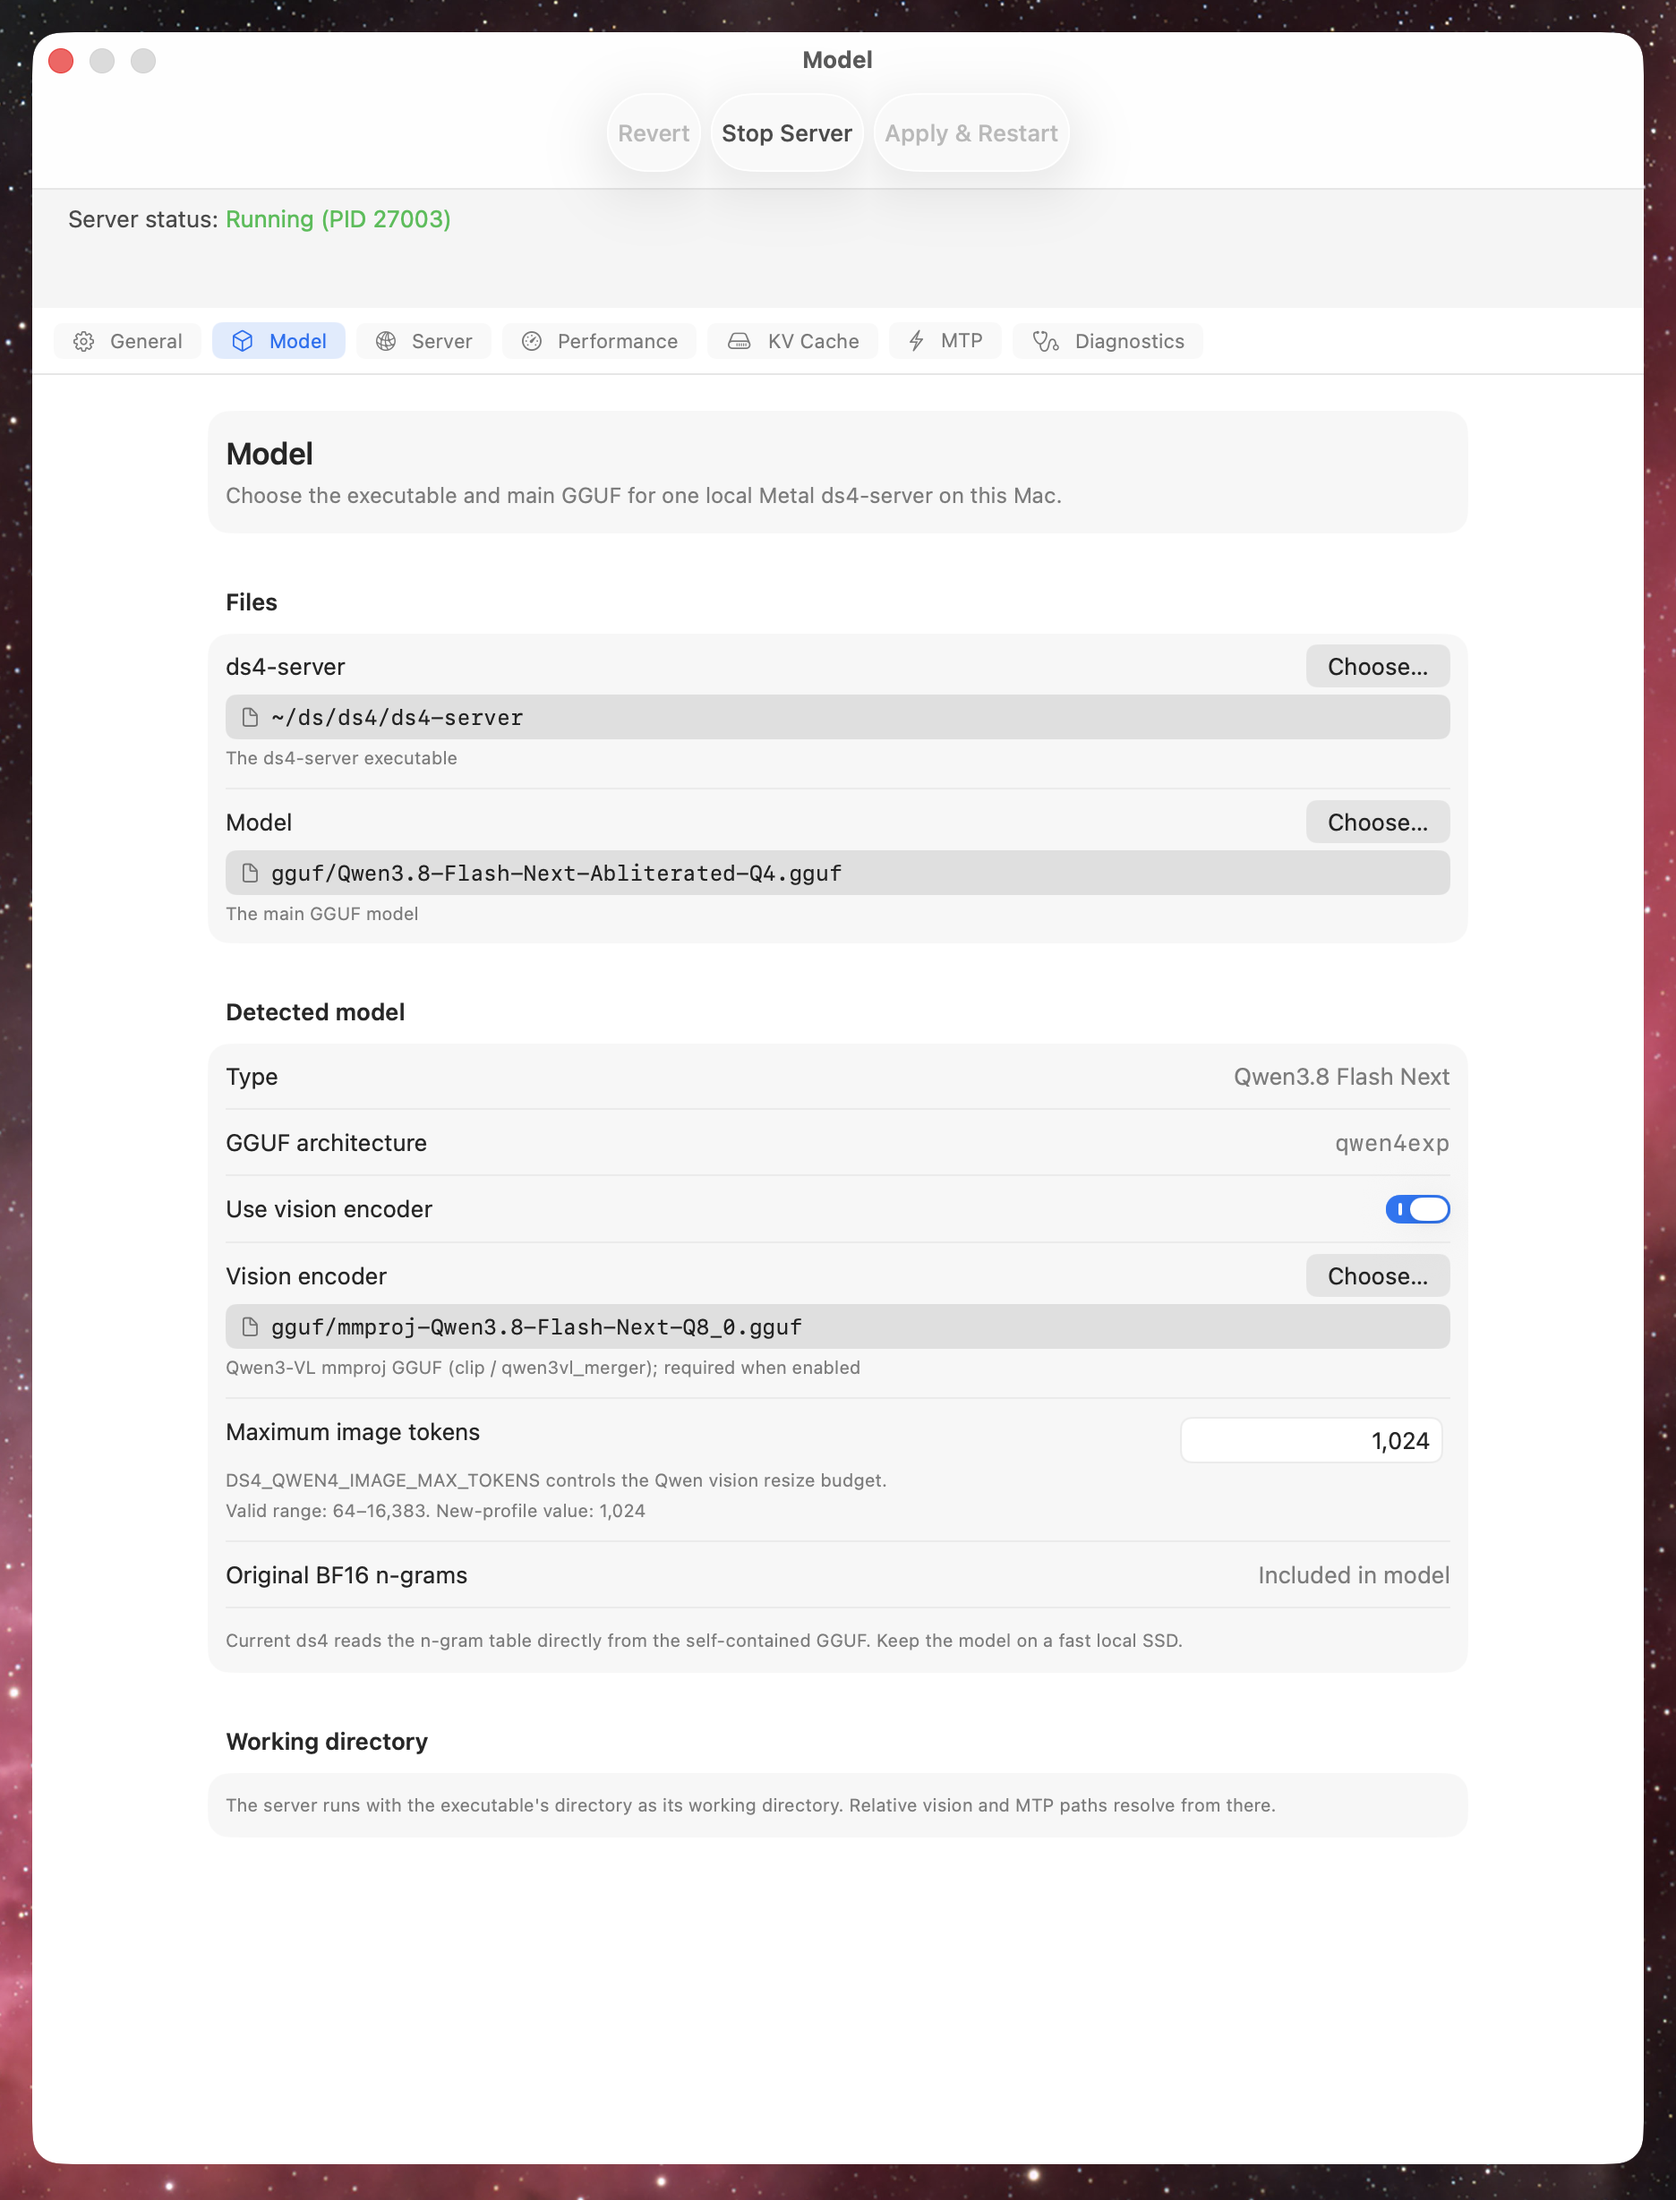
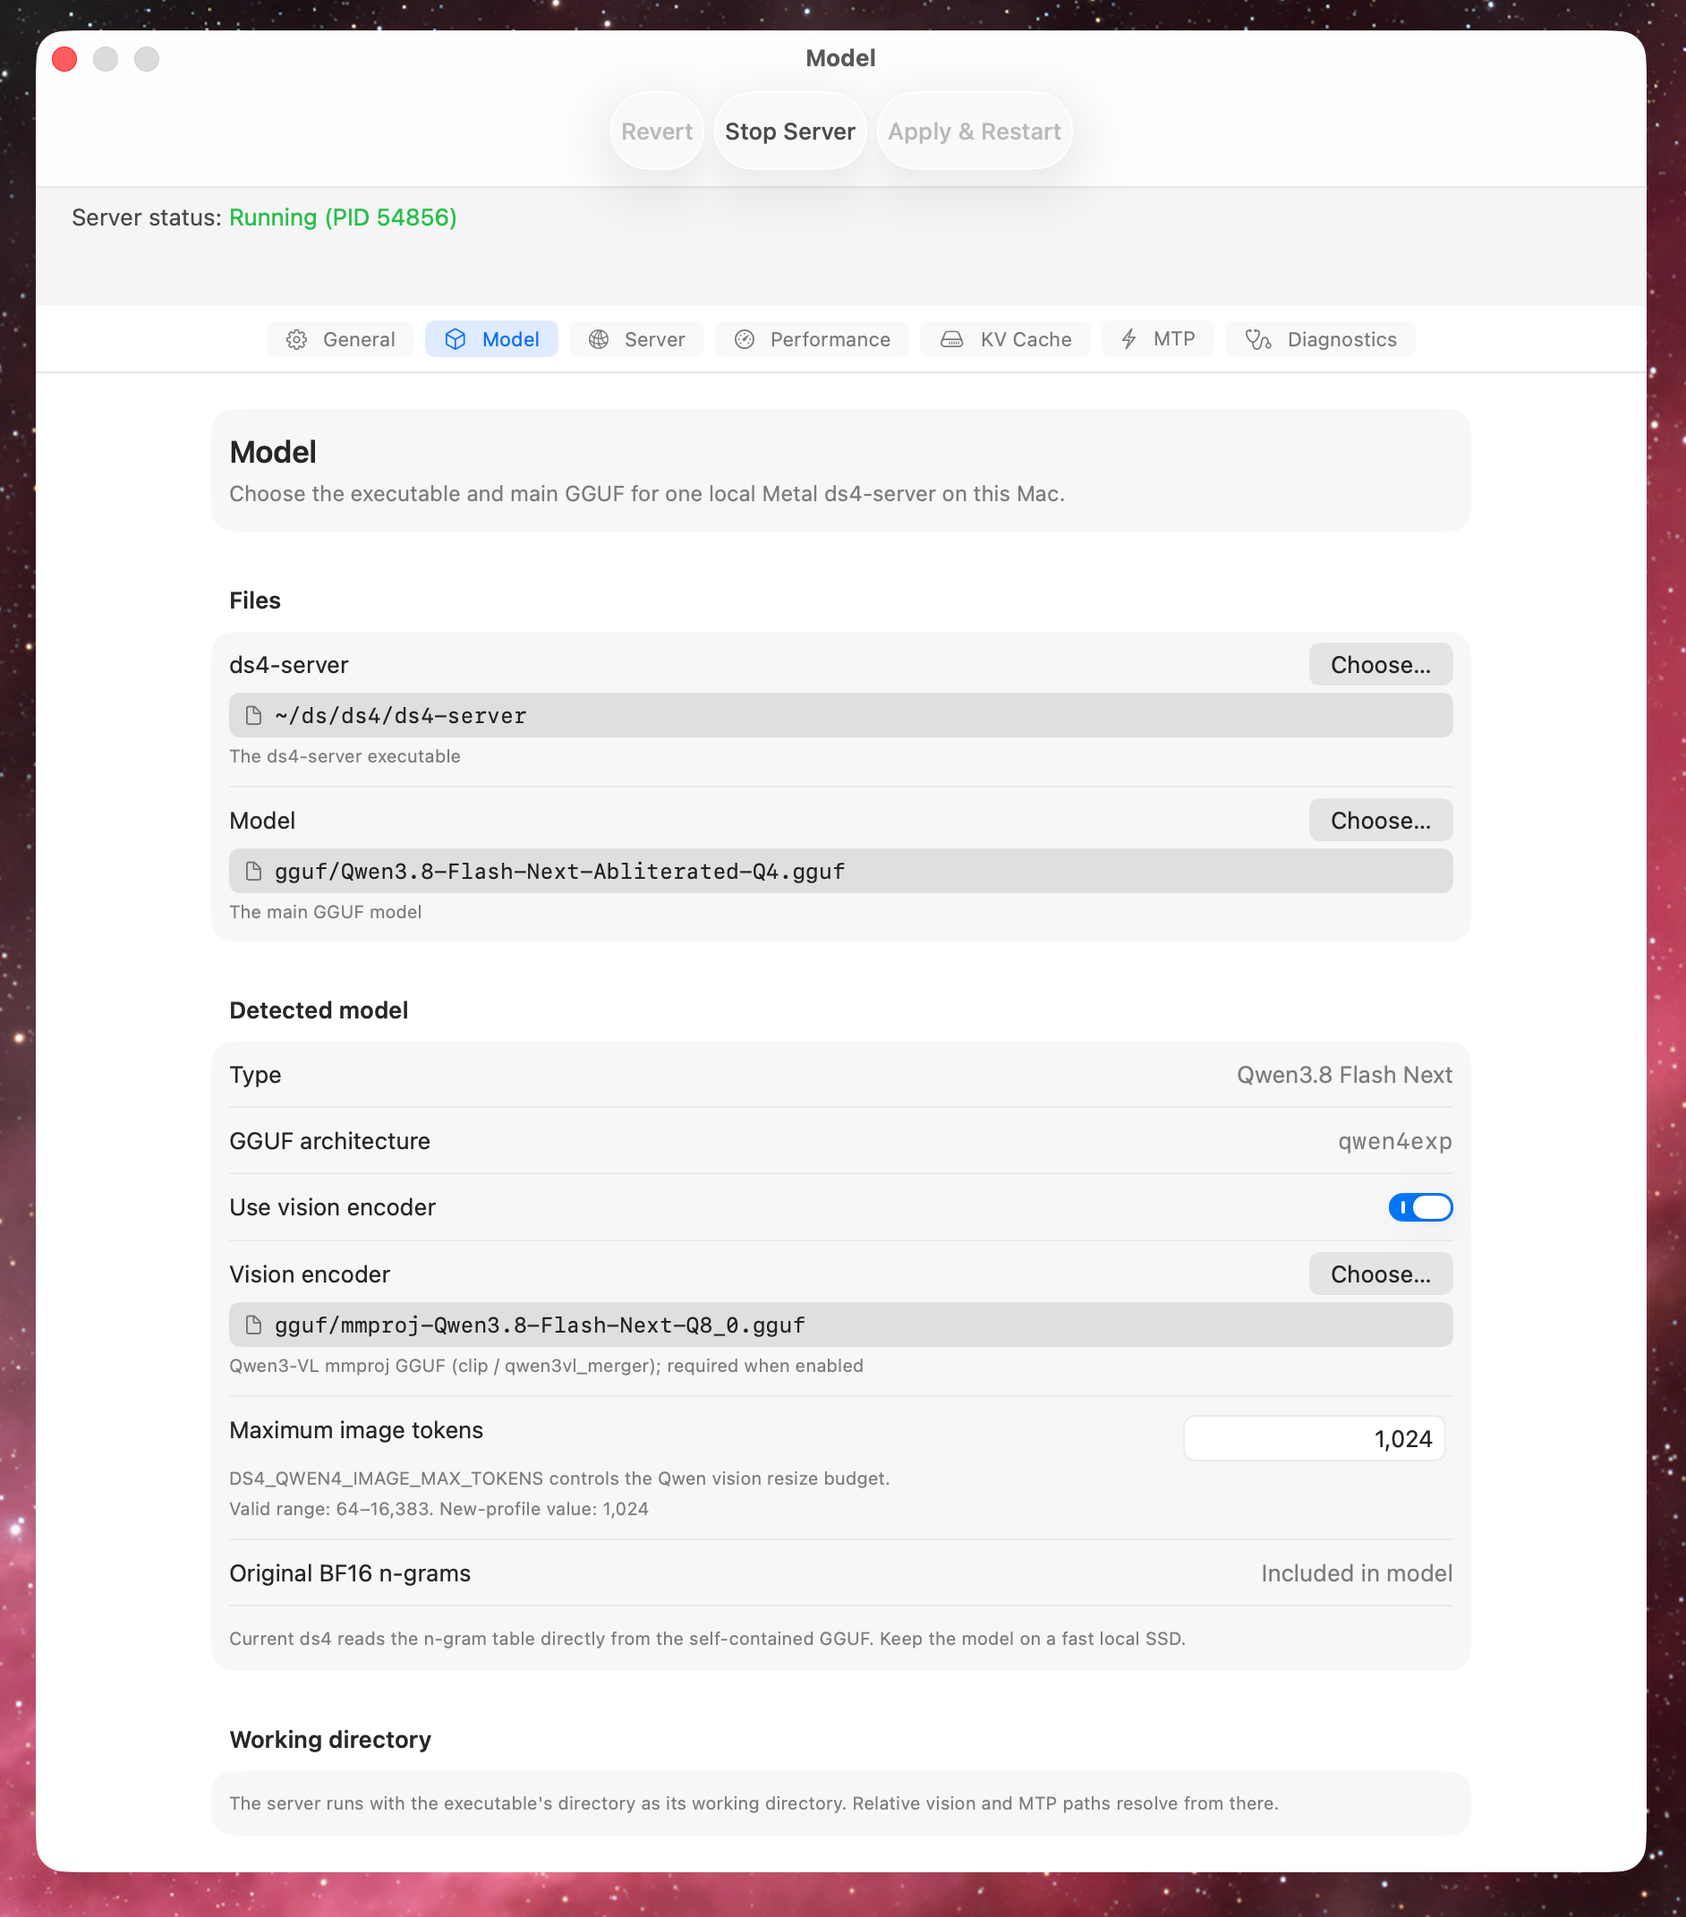
feat: support batched Qwen MTP
ds4 8db1d1d supports embedded Qwen MTP with resident session
batching. Keep incompatible model combinations blocked and document the
known-compatible upstream commit.

Center the Settings navigation and refresh its screenshot.

Release v0.0.3 (build 4).

diff --git a/Tests/dsmenubarTests/ServerCommandTests.swift b/Tests/dsmenubarTests/ServerCommandTests.swift
@@ -551,6 +551,92 @@ final class ServerCommandTests: XCTestCase {
         ).contains("--mtp"))
     }
 
+    func testQwenEmbeddedMTPCanUseNativeSessionBatching() {
+        let qwen = DS4ModelProfile(
+            family: .qwen38,
+            architecture: "qwen4exp",
+            nextnPredictLayers: 1
+        )
+        var config = ServerConfiguration.Config()
+        config.batchedSessions = 4
+        config.mtpMode = .embedded
+        config.mtpExactSampling = true
+
+        let errors = config.validationErrors(modelProfile: qwen)
+        XCTAssertNil(errors[.batchedSessions])
+        XCTAssertNil(errors[.mtpMode])
+
+        let args = DS4ServerCommand.arguments(
+            configuration: config,
+            resolvedModelPath: "/tmp/qwen.gguf",
+            resolvedMTPPath: "",
+            modelProfile: qwen
+        )
+        XCTAssertTrue(args.contains("--batched-session"))
+        XCTAssertTrue(args.contains("--mtp"))
+        XCTAssertTrue(args.contains("--mtp-exact-sampling"))
+    }
+
+    func testSessionBatchingRejectsMTPForOtherModelsAndModes() {
+        let glm = DS4ModelProfile(
+            family: .glm53Flash,
+            architecture: "glm5-next",
+            nextnPredictLayers: 1
+        )
+        var embedded = ServerConfiguration.Config()
+        embedded.batchedSessions = 2
+        embedded.mtpMode = .embedded
+        XCTAssertNotNil(embedded.validationErrors(modelProfile: glm)[.batchedSessions])
+
+        let deepSeek = DS4ModelProfile.from(architecture: "deepseek4")
+        for mode in [MTPMode.external, .dspark] {
+            var config = ServerConfiguration.Config()
+            config.batchedSessions = 2
+            config.mtpMode = mode
+            XCTAssertNotNil(
+                config.validationErrors(modelProfile: deepSeek)[.batchedSessions],
+                mode.rawValue
+            )
+        }
+
+        // A Qwen GGUF without nextn weights cannot speculate at all, so it
+        // keeps the conflict even though the family is otherwise eligible.
+        let qwenWithoutNextn = DS4ModelProfile(
+            family: .qwen38,
+            architecture: "qwen4exp",
+            nextnPredictLayers: 0
+        )
+        var bare = ServerConfiguration.Config()
+        bare.batchedSessions = 2
+        bare.mtpMode = .embedded
+        XCTAssertNotNil(bare.validationErrors(modelProfile: qwenWithoutNextn)[.batchedSessions])
+    }
+
+    /// The Settings panes and `validationErrors` must not drift apart; both
+    /// read the conflict from `hasBatchedSessionMTPConflict`.
+    func testBatchedSessionMTPConflictMatchesTheValidationError() {
+        let qwen = DS4ModelProfile(
+            family: .qwen38,
+            architecture: "qwen4exp",
+            nextnPredictLayers: 1
+        )
+        let profiles = [qwen, .from(architecture: "deepseek4"), .from(architecture: "glm5-next"), .unknown]
+        for profile in profiles {
+            for mode in MTPMode.allCases {
+                for sessions in [0, 4] {
+                    var config = ServerConfiguration.Config()
+                    config.batchedSessions = sessions
+                    config.mtpMode = mode
+                    XCTAssertEqual(
+                        config.hasBatchedSessionMTPConflict(modelProfile: profile),
+                        config.validationErrors(modelProfile: profile)[.batchedSessions] != nil,
+                        "\(profile.family.rawValue) \(mode.rawValue) \(sessions)"
+                    )
+                }
+            }
+        }
+    }
+
     func testValidationRejectsParserLimitsAndConflicts() {
         var config = ServerConfiguration.Config()
         config.port = 65_536

diff --git a/Sources/dsmenubar/SettingsWindow.swift b/Sources/dsmenubar/SettingsWindow.swift
@@ -764,6 +764,7 @@ struct SettingsView: View {
             .padding(.horizontal, 12)
             .padding(.vertical, 8)
         }
+        .defaultScrollAnchor(.center, for: .alignment)
         .frame(maxWidth: .infinity)
         .background(.bar)
     }
@@ -942,7 +943,7 @@ struct SettingsView: View {
                     "Resident sessions",
                     value: $draft.batchedSessions,
                     errorKey: .batchedSessions,
-                    note: "0 disables native batching. More sessions multiply context memory."
+                    note: "0 disables session batching. Each session keeps its own caches, so more sessions multiply context memory; supported models share one prefill workspace."
                 )
                 if draft.batchedSessions > 0 {
                     integerRow(
@@ -951,9 +952,11 @@ struct SettingsView: View {
                         errorKey: .mixedPrefillQuantum,
                         note: "The amount of prompt work allowed between active generations."
                     )
-                    Text("ds4-server cannot run native session batching and MTP together. Turn MTP off in the MTP pane to use batching.")
-                        .font(.footnote)
-                        .foregroundStyle(.secondary)
+                    if mayExceedBatchedMTPDecodeWidth {
+                        Text("ds4-server speculates across at most \(ServerConfiguration.Config.maxBatchedEmbeddedMTPDecodeWidth) sessions decoding at once. MTP still applies beyond that, one session at a time.")
+                            .font(.footnote)
+                            .foregroundStyle(.secondary)
+                    }
                 }
             }
         }
@@ -1219,9 +1222,9 @@ struct SettingsView: View {
                 }
             }
 
-            if draft.batchedSessions > 0 && draft.mtpMode != .off && modelProfile.isKnown {
+            if hasBatchedMTPConflict {
                 Section {
-                    Label("Set Resident sessions to 0 in the Server pane, or turn MTP off — ds4-server cannot run both.",
+                    Label("Set Resident sessions to 0 in the Server pane, or turn MTP off — this model cannot use both.",
                           systemImage: "exclamationmark.triangle.fill")
                         .font(.footnote)
                         .foregroundStyle(.red)
@@ -1235,6 +1238,18 @@ struct SettingsView: View {
             return "Qwen supports one or two embedded draft tokens. --mtp-draft controls legacy external MTP."
         }
         return "GLM uses its fixed built-in MTP cycle. --mtp-draft controls legacy external MTP."
+    }
+
+    private var hasBatchedMTPConflict: Bool {
+        draft.hasBatchedSessionMTPConflict(modelProfile: modelProfile)
+    }
+
+    /// Enough resident slots that a decode cycle can outgrow the batched
+    /// speculative path. Whether it actually does depends on how many sessions
+    /// are live at once, so the note describes the cap rather than predicting it.
+    private var mayExceedBatchedMTPDecodeWidth: Bool {
+        draft.usesBatchedEmbeddedMTP(modelProfile: modelProfile) &&
+            draft.batchedSessions > ServerConfiguration.Config.maxBatchedEmbeddedMTPDecodeWidth
     }
 
     @ViewBuilder

diff --git a/Sources/dsmenubar/ServerConfiguration.swift b/Sources/dsmenubar/ServerConfiguration.swift
@@ -566,6 +566,34 @@ extension ServerConfiguration.Config {
         }
     }
 
+    /// True when the selected model decodes batched sessions and MTP together.
+    /// ds4-server takes this path only for Qwen embedded MTP on Metal; see
+    /// `qwen4_batch_mtp` in ds4_server.c.
+    func usesBatchedEmbeddedMTP(modelProfile: DS4ModelProfile) -> Bool {
+        batchedSessions > 0 && mtpMode == .embedded &&
+            modelProfile.supportsBatchedEmbeddedMTP
+    }
+
+    /// True when batching and MTP are both requested but the model cannot run
+    /// them together. ds4-server does not refuse this combination — it starts
+    /// and silently drops MTP — so the conflict is surfaced here instead.
+    ///
+    /// The Settings panes render their own wording for this, so the rule lives
+    /// here rather than in the view: one model gaining batched MTP upstream
+    /// must not need matching edits in three places.
+    func hasBatchedSessionMTPConflict(modelProfile: DS4ModelProfile) -> Bool {
+        batchedSessions > 0 && mtpMode != .off && modelProfile.isKnown &&
+            !usesBatchedEmbeddedMTP(modelProfile: modelProfile)
+    }
+
+    /// The widest decode batch ds4-server speculates over in one pass, counted
+    /// in sessions ready to decode in that cycle rather than resident slots;
+    /// see `ds4_sessions_eval_batch_speculative_argmax`. A wider cycle keeps
+    /// MTP and takes the sequential fallback: one speculative cycle per
+    /// session. More resident slots than this are fine — only the sessions
+    /// decoding at the same moment count against it.
+    static let maxBatchedEmbeddedMTPDecodeWidth = 16
+
     /// Validate the constraints enforced by ds4-server's option parser plus
     /// cross-option constraints that would otherwise produce a misleading run.
     func validationErrors(
@@ -610,8 +638,9 @@ extension ServerConfiguration.Config {
 
         bounded(batchedSessions, field: .batchedSessions, label: "Resident sessions")
         if batchedSessions > 0 { bounded(mixedPrefillQuantum, field: .mixedPrefillQuantum, label: "Mixed prefill quantum") }
-        if batchedSessions > 0 && modelProfile.isKnown && mtpMode != .off {
-            errors[.batchedSessions] = "Native session batching disables MTP; turn off one of these features"
+        if hasBatchedSessionMTPConflict(modelProfile: modelProfile) {
+            errors[.batchedSessions] =
+                "\(modelProfile.displayName) cannot run session batching and MTP together; turn off one of these features"
         }
 
         if ssdStreamingEnabled {

diff --git a/Tests/dsmenubarTests/ModelSupportTests.swift b/Tests/dsmenubarTests/ModelSupportTests.swift
@@ -72,6 +72,30 @@ final class ModelSupportTests: XCTestCase {
         XCTAssertFalse(profile.supportsEmbeddedMTP)
     }
 
+    /// ds4-server batches sessions and MTP together only for Qwen with real
+    /// nextn weights; both halves of that gate are load-bearing.
+    func testOnlyQwenWithEmbeddedMTPWeightsSupportsBatchedMTP() {
+        let qwen = DS4ModelProfile(family: .qwen38, architecture: "qwen4exp", nextnPredictLayers: 1)
+        XCTAssertTrue(qwen.supportsBatchedEmbeddedMTP)
+
+        for withoutNextn in [
+            DS4ModelProfile(family: .qwen38, architecture: "qwen4exp", nextnPredictLayers: 0),
+            DS4ModelProfile.from(architecture: "qwen4exp")
+        ] {
+            XCTAssertFalse(withoutNextn.supportsBatchedEmbeddedMTP,
+                           String(describing: withoutNextn.nextnPredictLayers))
+        }
+
+        for architecture in ["glm5-next", "glm-dsa", "deepseek4", "deepseek41"] {
+            let profile = DS4ModelProfile(
+                family: DS4ModelProfile.from(architecture: architecture).family,
+                architecture: architecture,
+                nextnPredictLayers: 1
+            )
+            XCTAssertFalse(profile.supportsBatchedEmbeddedMTP, architecture)
+        }
+    }
+
     func testQwenVisionCompatibilityUsesMainMetadata() throws {
         let model = DS4ModelProfile(
             family: .qwen38,

diff --git a/Sources/dsmenubar/ModelSupport.swift b/Sources/dsmenubar/ModelSupport.swift
@@ -99,6 +99,9 @@ struct DS4ModelProfile: Equatable {
     }
     var supportsExternalMTP: Bool { family == .deepSeek }
     var supportsDSpark: Bool { family == .deepSeek }
+    var supportsBatchedEmbeddedMTP: Bool {
+        family == .qwen38 && supportsEmbeddedMTP
+    }
     var supportsVision: Bool { family == .glm53Flash || family == .deepSeek41 || family == .qwen38 }
     var supportsSSDStreaming: Bool { family != .qwen38 }
     var supportsManualPrefill: Bool { family == .deepSeek || family == .qwen38 || family == .unknown }

diff --git a/README.md b/README.md
@@ -35,11 +35,23 @@ does not manage remote, distributed, Linux, CUDA, or ROCm servers.
 - macOS 26 or later
 - An Apple silicon Mac
 - A separately built `ds4-server` executable
+  ([see the version compatibility note below](#ds4-server-version-compatibility))
 - A compatible DwarfStar-specific main GGUF model
 
 Follow the [DwarfStar project](https://github.com/antirez/ds4) for server build
 instructions and model information. DS Menu Bar does not include `ds4-server`
 or model files.
+
+### ds4-server version compatibility
+
+> [!IMPORTANT]
+> At the time of this DS Menu Bar release, `ds4` does not publish versioned
+> releases. Compatibility is therefore tracked against specific commits on its
+> `main` branch, and DS Menu Bar is updated as upstream changes are reviewed.
+> The latest known compatible commit is
+> [`8db1d1d`](https://github.com/antirez/ds4/commit/8db1d1d155cb0400a86a86b9c62d0defb3a6148b)
+> (September 16, 2026). Newer versions of `ds4-server` may also work, but
+> compatibility is not guaranteed.
 
 ## Supported models
 
@@ -84,7 +96,7 @@ Model tab shows selected files and detected model details. Available controls
 and defaults adapt to the selected model and the Mac's unified memory.
 
 <p align="center">
-  <img src="docs/images/model-settings.png" width="936" alt="Model settings showing detected Qwen3.8 Flash Next details">
+  <img src="docs/images/model-settings.png" width="942" alt="Model settings showing detected Qwen3.8 Flash Next details">
 </p>
 
 ## Logs and request traces
